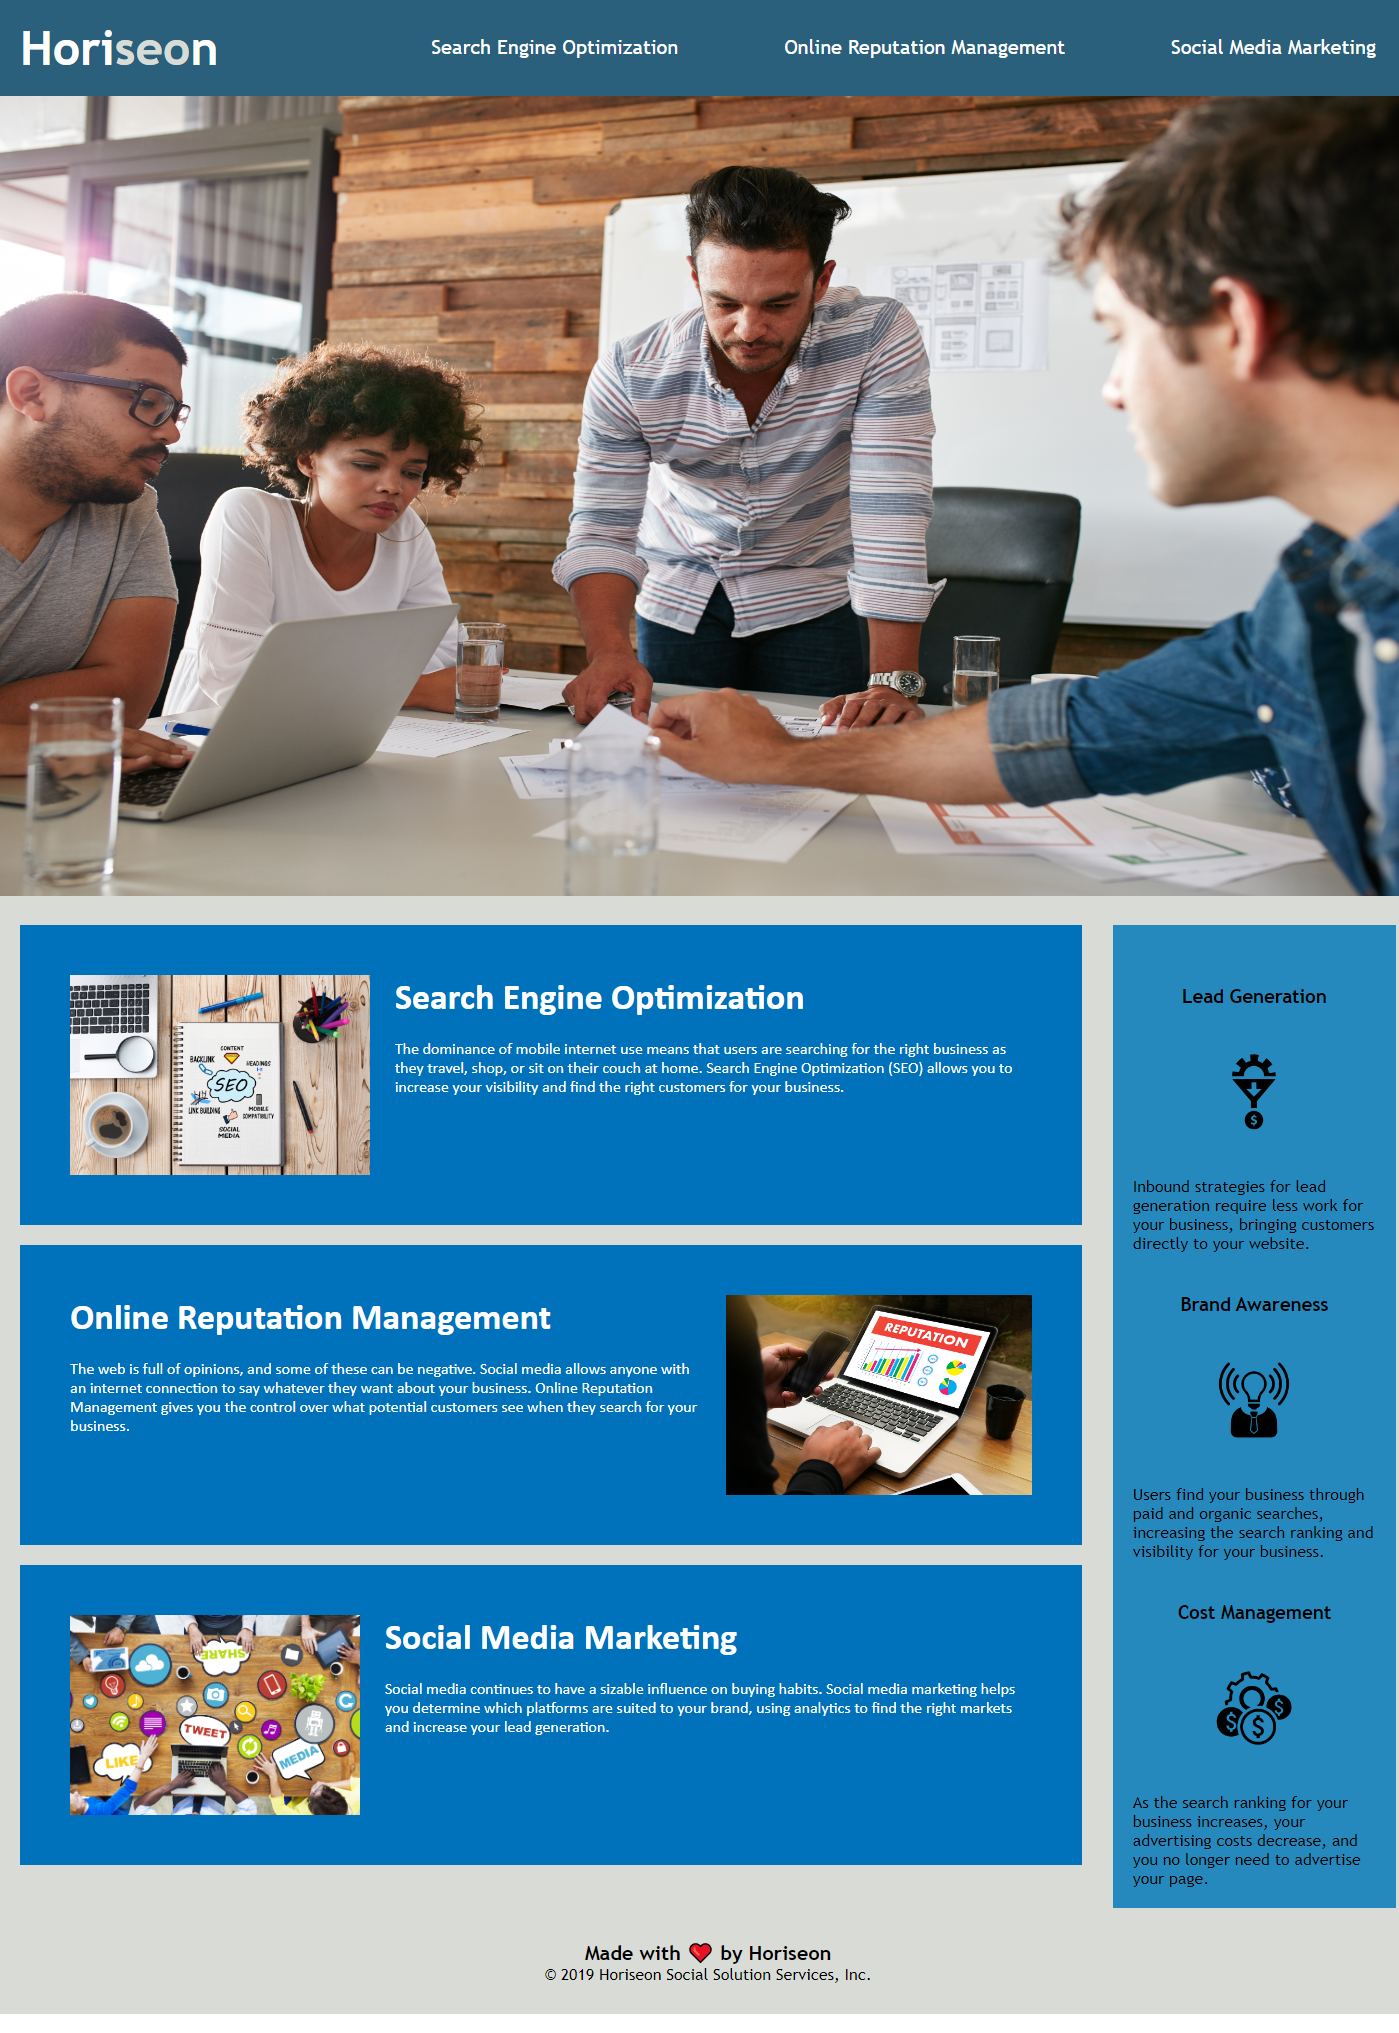
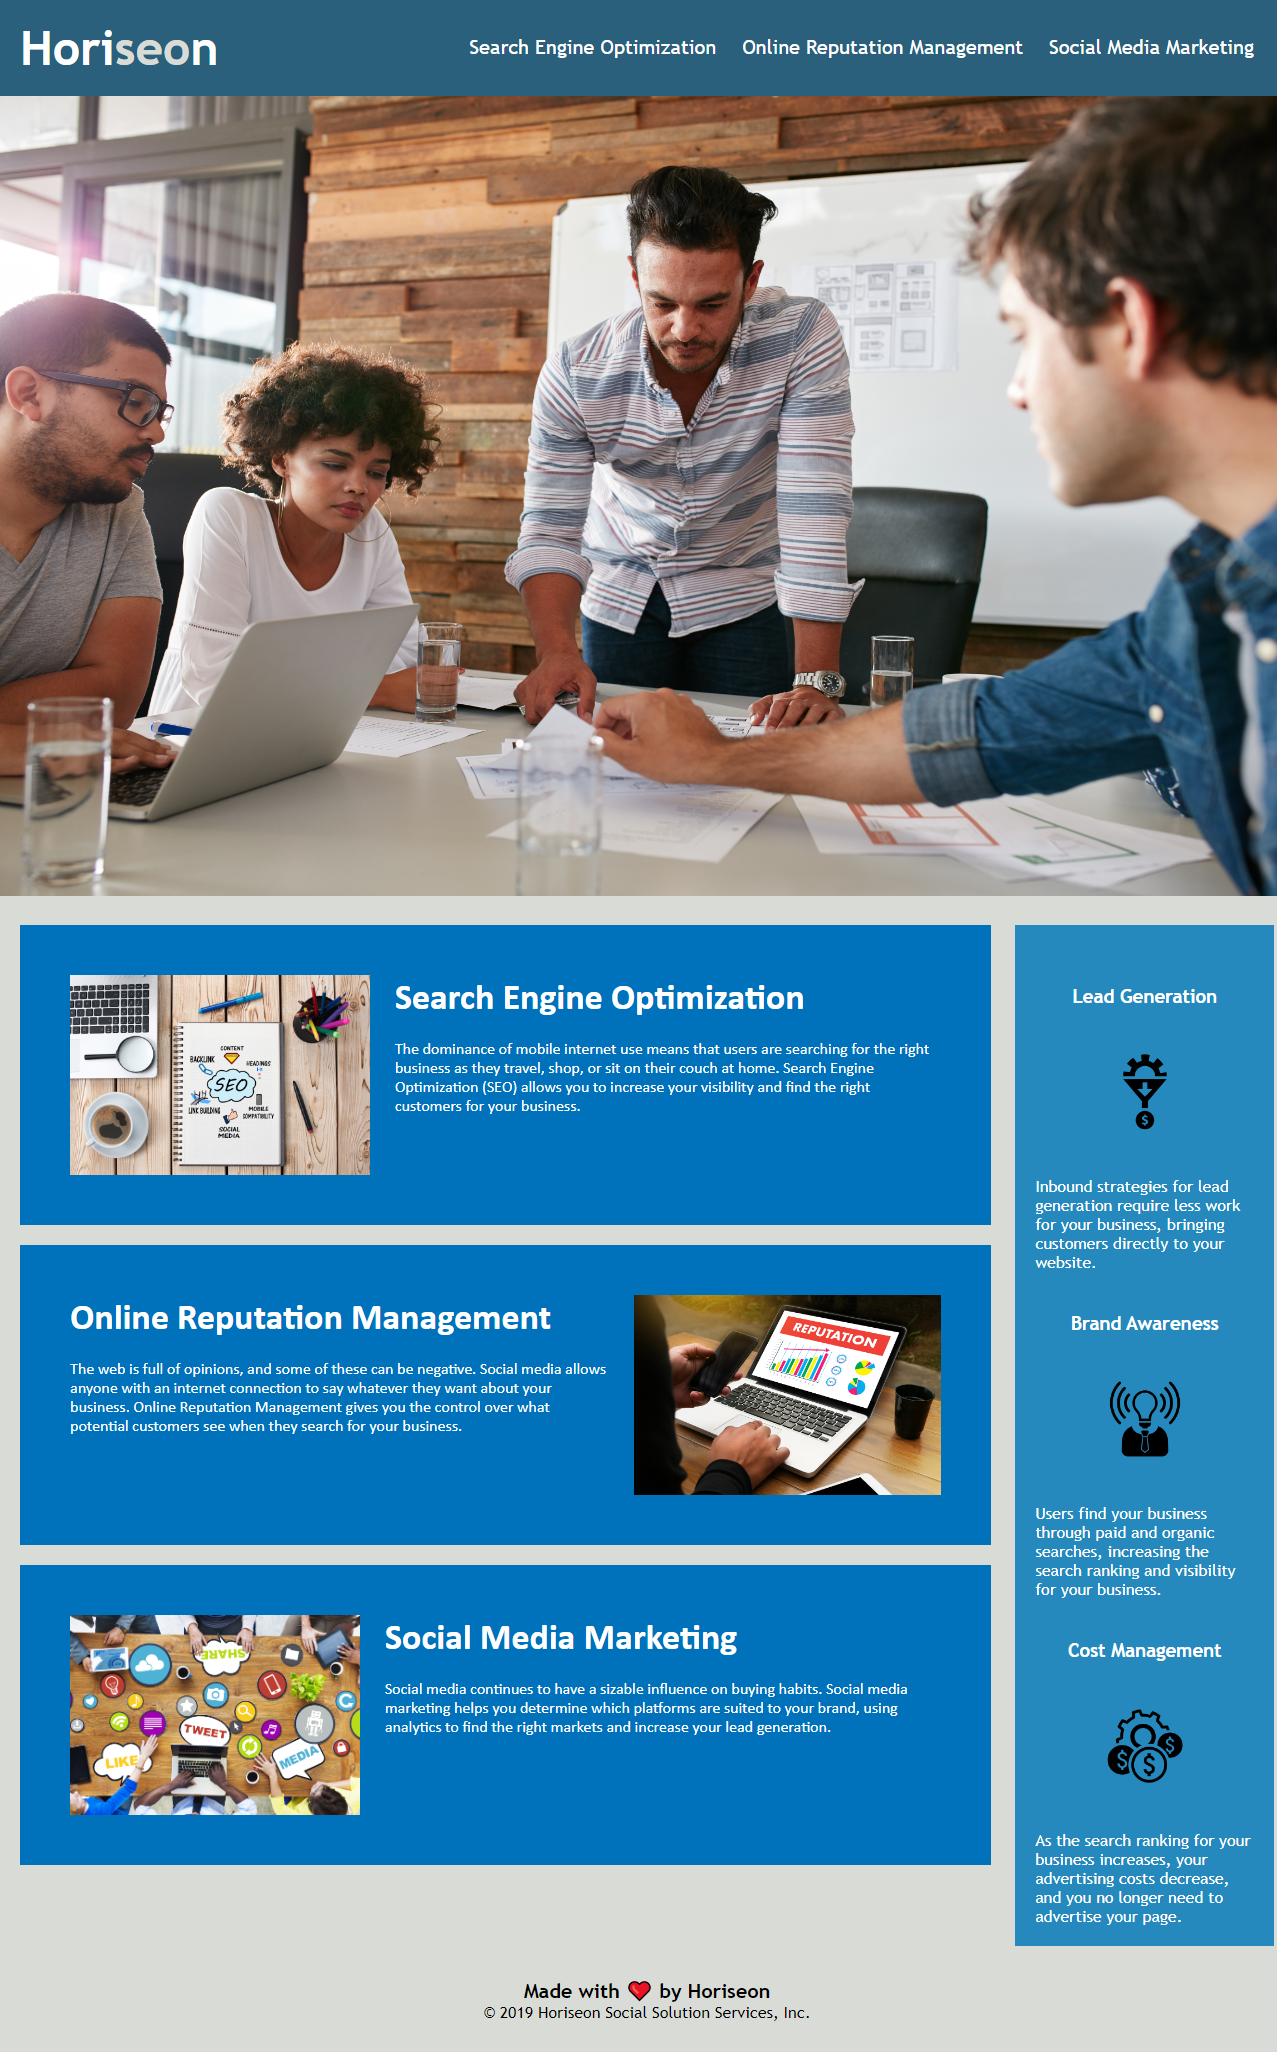
fixed div in readme & screenshot image/margin

diff --git a/Develop/assets/css/style.css b/Develop/assets/css/style.css
@@ -35,7 +35,7 @@ body {
 /* Pages top most headings displayed to the right and spaced */
 .header nav ul li {
     display: inline-block;
-    margin-left: 100px; 
+    margin-left: 20px; 
 }
 /* Given links now have colour rather than standared blue underline */
 a {
@@ -96,6 +96,7 @@ h2 {
     height: 100%;
     font-family: 'Gill Sans', 'Gill Sans MT', 'Trebuchet MS', sans-serif;
     background-color: #2589bd;
+    color: #ffffff;
 }
 /* also consolidated all h3 elements */
 .benefits h3 {

diff --git a/Develop/README.md b/Develop/README.md
@@ -5,11 +5,11 @@
 -For my first challenge was an On-The-Job ticket. This required me to modify & refactor some existing code.
 A marketing agency has hired me to make thier site more accessible to the public and others with disabilities.
 
--When inpecting the code a few links of the site were not funtioning properly. The HTML required adding & changing the semantic elements as most were all classed as '<div>'. 
+-When inpecting the code a few links of the site were not funtioning properly. The HTML required adding & changing the semantic elements as most were all classed as 'div'. 
 
 -The title was changed to something more suitable and clear. The CSS selectors were conolidated methodically and reaaranged to keep the flow logical with CSS & HTML structure.
 
--Additionally, comments were added to the CSS explaining some of the selectors purpose and functions.
+-Additionally, comments were added to the CSS explaining some of the selectors purpose and functions. I also left the footer visable even though the 'demo.png' did not show it. I did this due to the user story and the mention of accessibility (screen readers etc).
 
 -While working on this site, I learnt that though there may be a solution to an issue it may not be the best for the current problem. Searching for multipule solutions to a problem helps to ensure you find the appropriate one.
 
